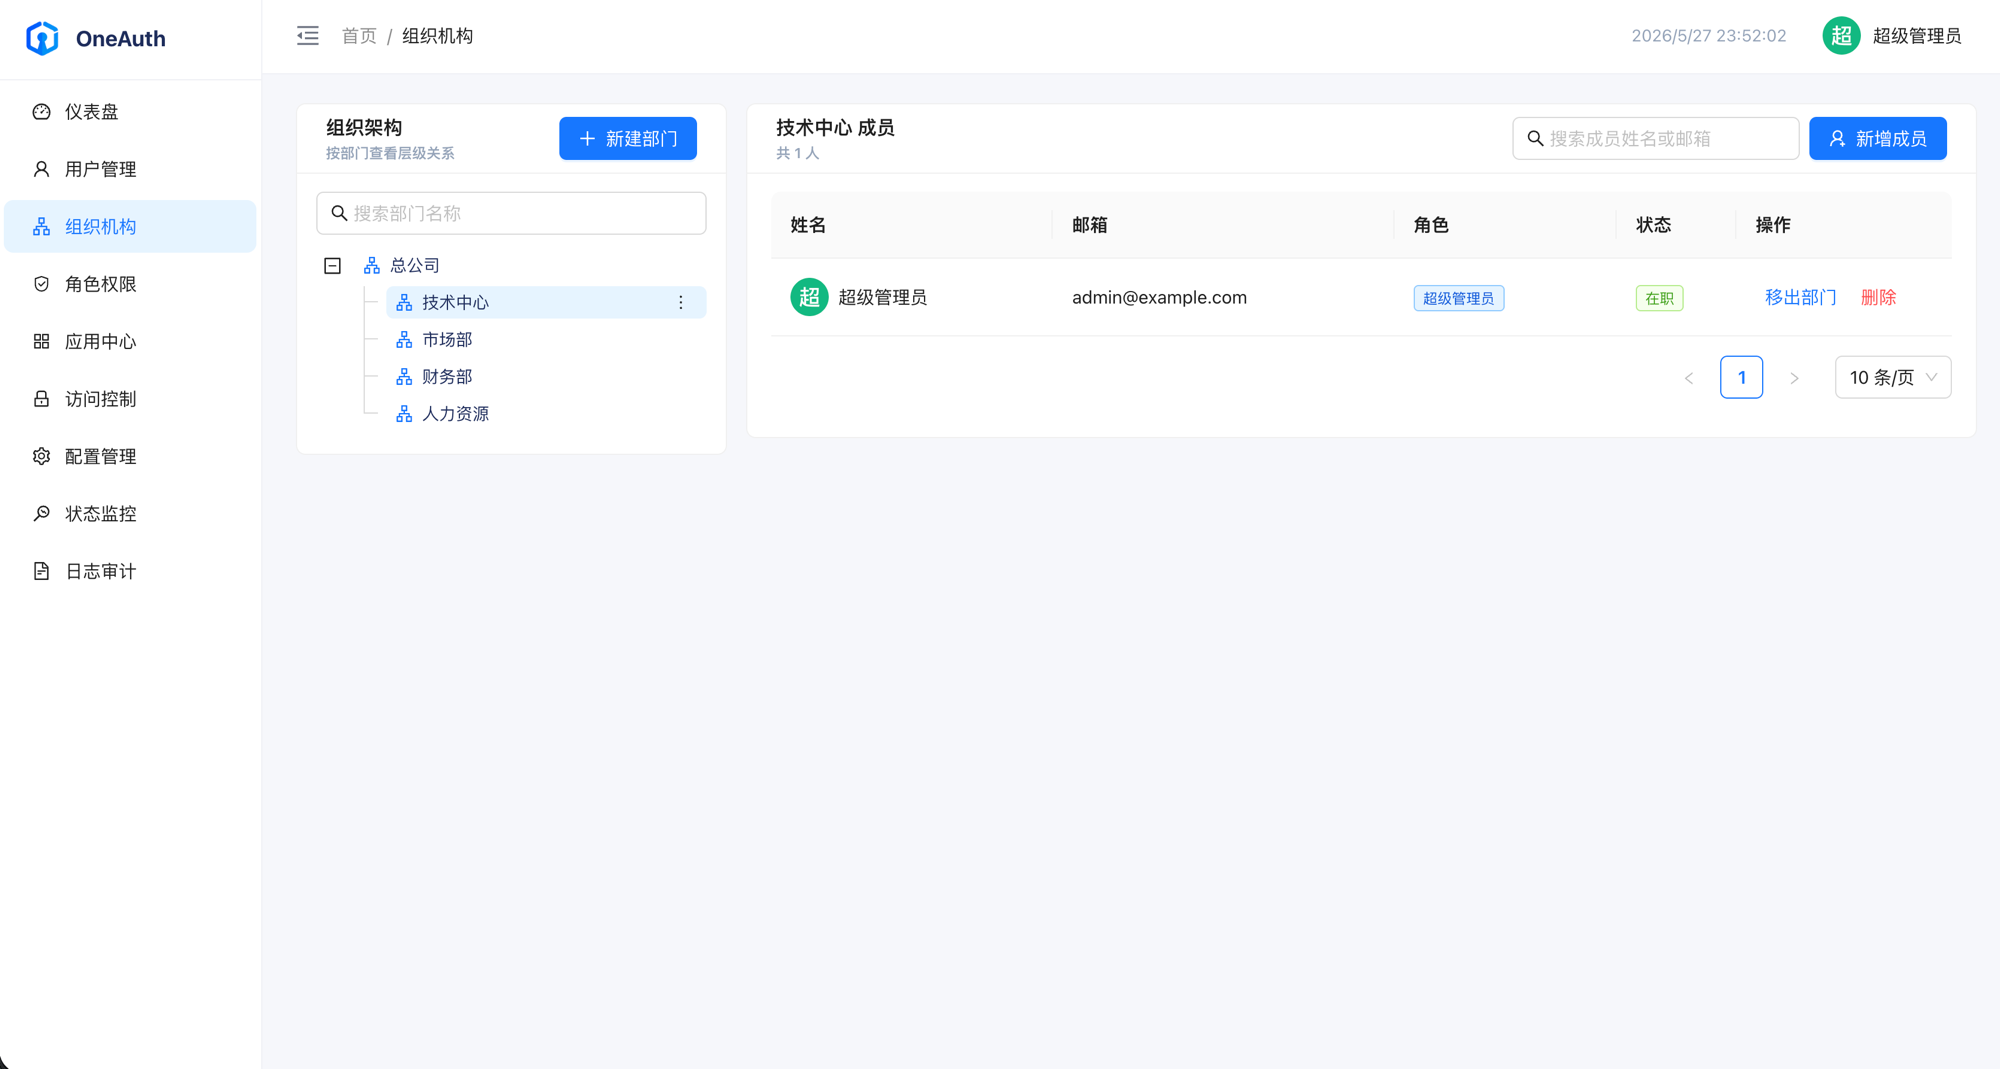
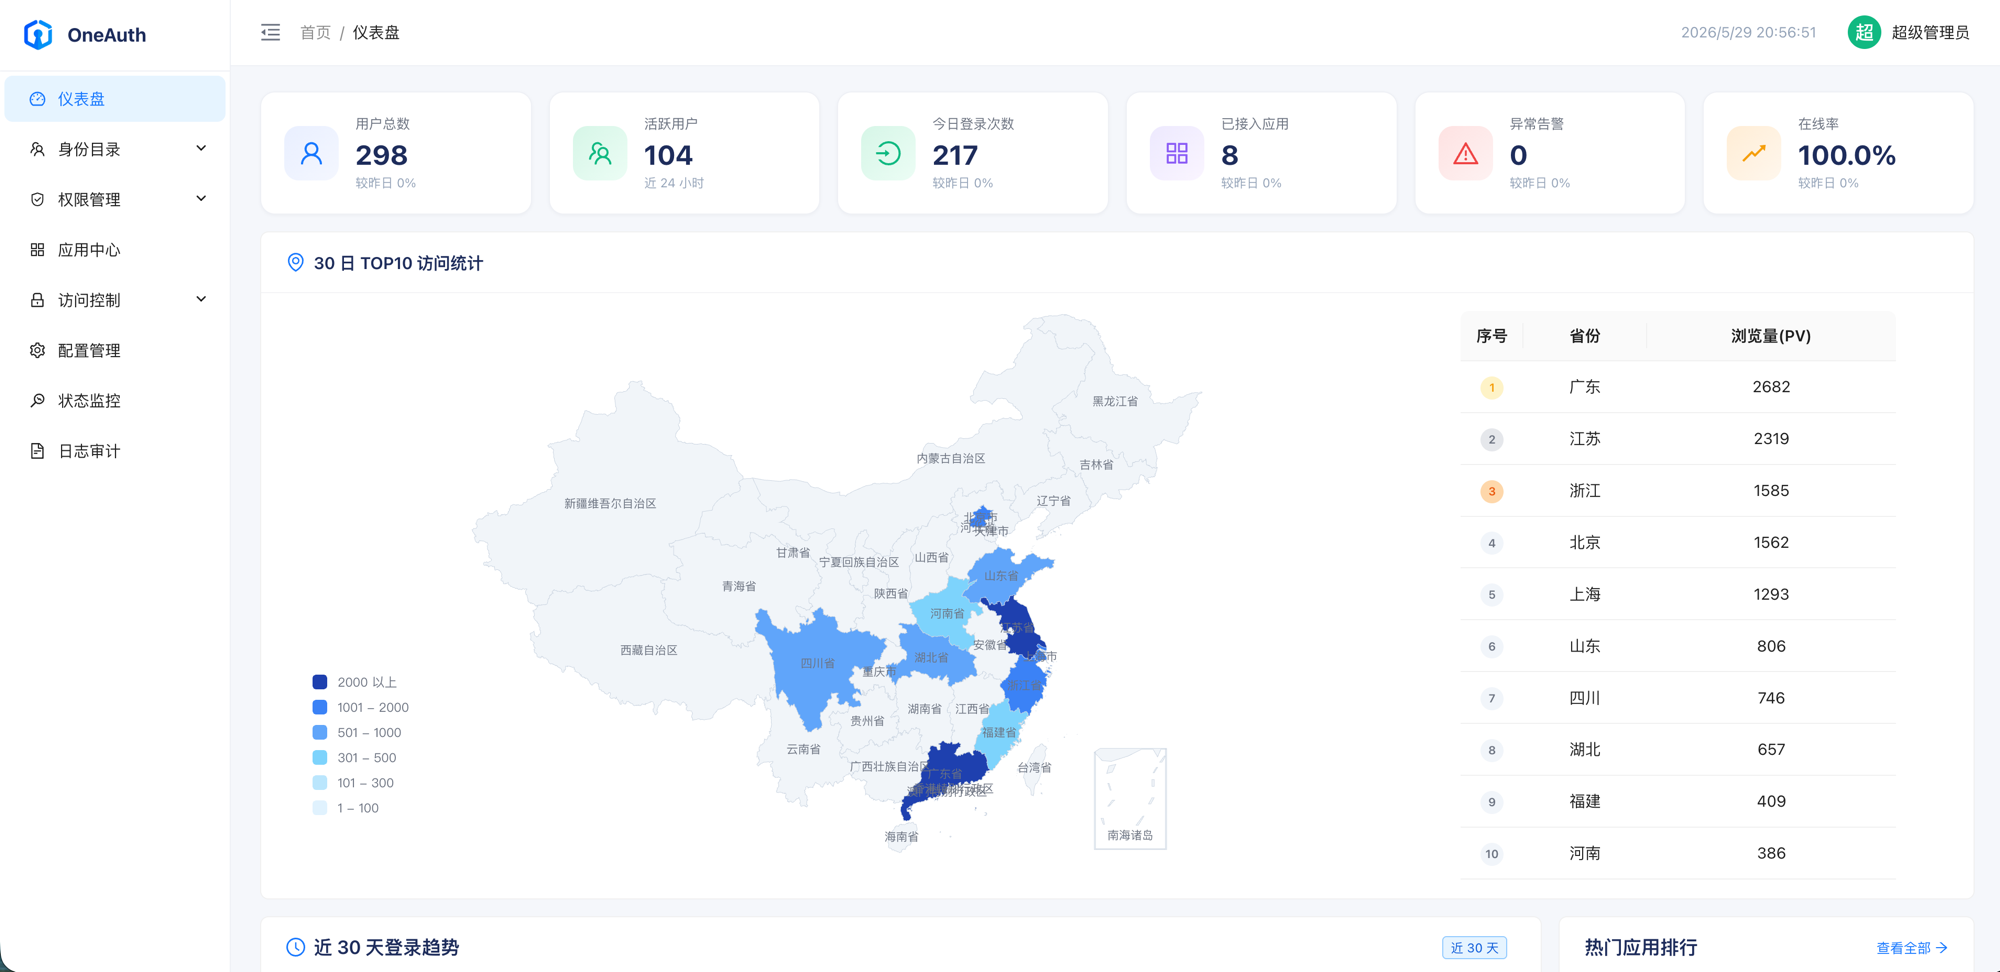
Dashboard: fix login-trends chart, add seed-fake tool, refresh screenshot
- DualAxes was given yField=['count','count'] which collides on the same
  field name and renders nothing. Project the trend twice into bar/line
  fields with distinct yField names; legend/yAxis/meta keys follow.
- Add cmd/seed-fake: one-shot CLI to populate sso_login_log / sso_access_log /
  sso_operation_log with 30 days of plausible data across 34 provinces,
  hitting every PV bucket so the China map shades naturally.
- gitignore go-build outputs (seed-fake, sso-server, bin/).
- Update docs/screenshots/03-admin-orgs.png to the new admin layout.

diff --git a/sso-admin/src/pages/admin/dashboard/index.tsx b/sso-admin/src/pages/admin/dashboard/index.tsx
@@ -155,9 +155,12 @@ export default function DashboardPage() {
               <Empty description="暂无数据" />
             ) : (
               <DualAxes
-                data={[trend, trend]}
+                data={[
+                  trend.map((r) => ({ date: r.date, bar: r.count })),
+                  trend.map((r) => ({ date: r.date, line: r.count })),
+                ]}
                 xField="date"
-                yField={['count', 'count']}
+                yField={['bar', 'line']}
                 height={300}
                 geometryOptions={[
                   {
@@ -181,18 +184,17 @@ export default function DashboardPage() {
                   layout: 'horizontal',
                   position: 'top-left',
                   itemName: {
-                    formatter: (text: string) => (text === 'count' ? '登录次数' : '趋势'),
+                    formatter: (text: string) => (text === 'bar' ? '登录次数' : '趋势'),
                   },
                 }}
                 yAxis={{
-                  count: {
-                    grid: { line: { style: { lineDash: [3, 3], stroke: '#eef0f5' } } },
-                  },
-                  count2: { grid: null as any, label: null as any },
+                  bar: { grid: { line: { style: { lineDash: [3, 3], stroke: '#eef0f5' } } } },
+                  line: { grid: null as any, label: null as any },
                 }}
                 xAxis={{ tickCount: 14, label: { autoRotate: false } }}
                 meta={{
-                  count: { alias: '登录次数' },
+                  bar: { alias: '登录次数' },
+                  line: { alias: '趋势' },
                 }}
               />
             )}

diff --git a/sso-server/cmd/seed-fake/main.go b/sso-server/cmd/seed-fake/main.go
@@ -1,0 +1,211 @@
+// 仪表盘假数据填充器：往本地 SQLite（默认 ./data/sso.db）里塞 30 天的
+// LoginLog / AccessLog / OperationLog，让仪表盘所有图表都有真实形状的数据。
+//
+// 用法（在 sso-server 目录下）：
+//   go run ./cmd/seed-fake                    # 默认 30 天
+//   go run ./cmd/seed-fake --days 30 --reset  # 先清掉旧假数据
+package main
+
+import (
+	"flag"
+	"fmt"
+	"log"
+	"math/rand"
+	"time"
+
+	"github.com/glebarez/sqlite"
+	"github.com/google/uuid"
+	"gorm.io/gorm"
+
+	"sso-server/internal/model"
+	"sso-server/internal/repository"
+)
+
+// 省份名 + 期望的日均 PV（决定颜色档位 1-100 / 101-300 / 301-500 / 501-1000 / 1001-2000 / 2000+）
+type provincePlan struct {
+	Name        string
+	DailyAvgPV  int // 每日大约 PV
+	JitterRange int // PV 抖动幅度
+}
+
+var plan = []provincePlan{
+	// 2000+ 档
+	{"广东", 90, 30},  // 30 天 ~2700
+	{"江苏", 80, 25},  // ~2400
+	// 1001 - 2000
+	{"浙江", 55, 20}, // ~1650
+	{"北京", 50, 15}, // ~1500
+	{"上海", 45, 15}, // ~1350
+	// 501 - 1000
+	{"山东", 28, 8},
+	{"四川", 25, 8},
+	{"湖北", 22, 7},
+	// 301 - 500
+	{"福建", 14, 5},
+	{"湖南", 13, 4},
+	{"河南", 12, 4},
+	{"安徽", 11, 4},
+	// 101 - 300
+	{"河北", 9, 3},
+	{"辽宁", 8, 2},
+	{"陕西", 7, 2},
+	{"江西", 6, 2},
+	{"广西", 5, 2},
+	{"重庆", 5, 2},
+	{"云南", 4, 2},
+	// 1 - 100
+	{"贵州", 2, 1},
+	{"山西", 2, 1},
+	{"黑龙江", 2, 1},
+	{"吉林", 2, 1},
+	{"内蒙古", 1, 1},
+	{"甘肃", 1, 1},
+	{"新疆", 1, 1},
+	{"海南", 1, 1},
+	{"宁夏", 1, 1},
+	{"青海", 1, 1},
+	{"天津", 2, 1},
+	{"西藏", 1, 1},
+	{"香港", 1, 1},
+	{"澳门", 1, 1},
+	{"台湾", 1, 1},
+}
+
+// 应用列表（与 seed.go demo 应用一致）
+var demoApps = []struct{ ClientID, Name string }{
+	{"demo-oa", "OA 演示"},
+	{"demo-mail", "邮件演示"},
+	{"demo-files", "文件演示"},
+	{"demo-monitor", "监控演示"},
+	{"demo-blog", "博客演示"},
+	{"demo-cms", "CMS 演示"},
+	{"demo-shop", "商城演示"},
+	{"demo-meet", "会议演示"},
+}
+
+var loginMethods = []string{"password", "password", "password", "oauth_code", "oauth_code", "refresh_token"}
+
+var browsers = []string{"Chrome", "Edge", "Safari", "Firefox"}
+var oses = []string{"macOS", "Windows", "Linux", "iOS", "Android"}
+
+func main() {
+	dbPath := flag.String("db", "./data/sso.db", "sqlite path")
+	days := flag.Int("days", 30, "how many days back")
+	reset := flag.Bool("reset", false, "clear sso_login_log / sso_access_log first")
+	flag.Parse()
+
+	db, err := gorm.Open(sqlite.Open(*dbPath), &gorm.Config{})
+	if err != nil {
+		log.Fatalf("open db: %v", err)
+	}
+	if err := repository.AutoMigrate(db); err != nil {
+		log.Fatalf("automigrate: %v", err)
+	}
+
+	if *reset {
+		log.Println("[seed-fake] truncating login/access/operation logs ...")
+		db.Exec("DELETE FROM sso_login_log")
+		db.Exec("DELETE FROM sso_access_log")
+		db.Exec("DELETE FROM sso_operation_log")
+	}
+
+	// 取个真实用户作为 user_id 关联（用 admin / jinli）
+	var users []model.User
+	db.Where("username IN (?)", []string{"admin", "jinli"}).Find(&users)
+	if len(users) == 0 {
+		log.Fatalf("no admin/jinli user found, run server first to seed users")
+	}
+
+	now := time.Now()
+	rand.Seed(now.UnixNano())
+
+	totalLogin := 0
+	totalAccess := 0
+
+	for _, p := range plan {
+		for d := 0; d < *days; d++ {
+			day := now.AddDate(0, 0, -d)
+			// 当日 PV = 平均 + 抖动
+			dailyPV := p.DailyAvgPV + rand.Intn(p.JitterRange*2+1) - p.JitterRange
+			if dailyPV < 0 {
+				dailyPV = 0
+			}
+
+			// 30% 进 login_log（其余进 access_log），凑齐"省份访问"统计
+			loginCount := dailyPV * 30 / 100
+			accessCount := dailyPV - loginCount
+
+			ip := fakeIP()
+			for i := 0; i < loginCount; i++ {
+				u := users[rand.Intn(len(users))]
+				ts := day.Add(time.Duration(rand.Intn(86400)) * time.Second)
+				db.Create(&model.LoginLog{
+					UserID:    &u.ID,
+					Username:  u.Username,
+					IPAddress: ip,
+					Province:  p.Name,
+					Location:  p.Name + " - 虚构",
+					UserAgent: "FakeSeed/1.0",
+					Browser:   browsers[rand.Intn(len(browsers))],
+					OS:        oses[rand.Intn(len(oses))],
+					Method:    loginMethods[rand.Intn(len(loginMethods))],
+					Status:    "success",
+					Message:   "",
+					CreatedAt: ts,
+				})
+				totalLogin++
+			}
+
+			for i := 0; i < accessCount; i++ {
+				u := users[rand.Intn(len(users))]
+				ts := day.Add(time.Duration(rand.Intn(86400)) * time.Second)
+				app := demoApps[rand.Intn(len(demoApps))]
+				db.Create(&model.AccessLog{
+					UserID:     &u.ID,
+					Username:   u.Username,
+					ClientID:   app.ClientID,
+					ClientName: app.Name,
+					IPAddress:  ip,
+					Province:   p.Name,
+					CreatedAt:  ts,
+				})
+				totalAccess++
+			}
+		}
+	}
+
+	// 顺便造一些操作日志，让"最近操作"有内容
+	ops := []struct{ Action, Resource, Desc string }{
+		{"create", "user", "新增用户 alice"},
+		{"update", "user", "更新用户 bob 资料"},
+		{"create", "client", "创建应用 demo-newapp"},
+		{"delete", "role", "删除角色 reporter"},
+		{"update", "client", "更新应用 demo-oa 的回调地址"},
+		{"reset_password", "user", "重置用户 charlie 密码"},
+		{"login", "session", "登录系统"},
+		{"logout", "session", "退出登录"},
+	}
+	for i := 0; i < 30; i++ {
+		o := ops[rand.Intn(len(ops))]
+		u := users[rand.Intn(len(users))]
+		ts := now.Add(-time.Duration(rand.Intn(*days*24)) * time.Hour)
+		db.Create(&model.OperationLog{
+			UserID:       &u.ID,
+			Username:     u.Username,
+			Action:       o.Action,
+			ResourceType: o.Resource,
+			ResourceID:   uuid.New().String(),
+			Description:  o.Desc,
+			IPAddress:    fakeIP(),
+			Status:       200,
+			CreatedAt:    ts,
+		})
+	}
+
+	fmt.Printf("\n[seed-fake] done.\n  login_log:     +%d\n  access_log:    +%d\n  operation_log: +30\n", totalLogin, totalAccess)
+	fmt.Printf("  spread across %d provinces over last %d days.\n", len(plan), *days)
+}
+
+func fakeIP() string {
+	return fmt.Sprintf("%d.%d.%d.%d", rand.Intn(223)+1, rand.Intn(255), rand.Intn(255), rand.Intn(254)+1)
+}